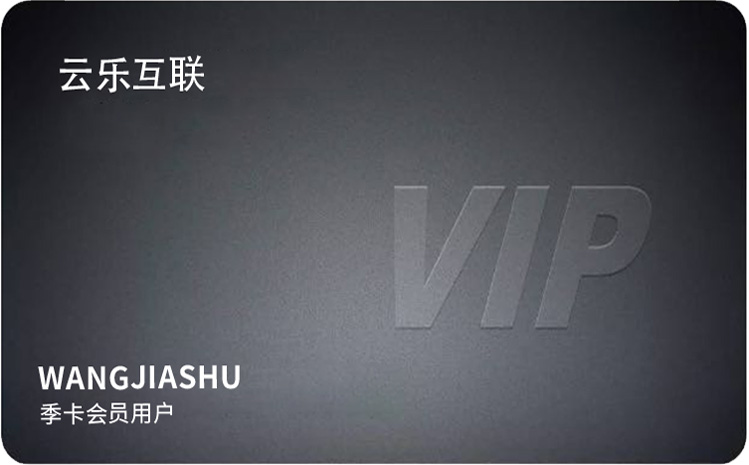
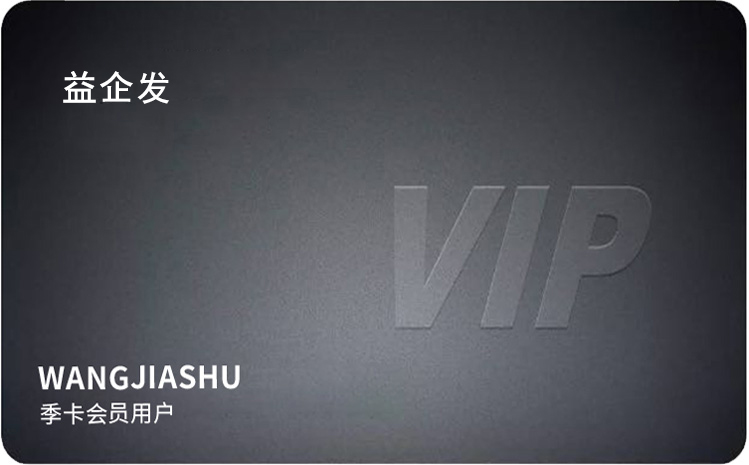
估值添加二维码

Changed region(s): [[0.0614, 0.1204, 0.2764, 0.2409]]

diff --git a/order_confirm.html b/order_confirm.html
@@ -35,7 +35,7 @@
         <div class="weui-form-preview__hd">
             <div class="weui-form-preview__item">
                 <label class="weui-form-preview__label">付款金额</label>
-                <em class="weui-form-preview__value">¥{{info.oneprice}}</em>
+                <em class="weui-form-preview__value">¥{{info.price}}</em>
             </div>
         </div>
         <div class="weui-form-preview__bd">
@@ -80,8 +80,8 @@
             <label class="weui-agree">
                 <input id="weuiAgree" type="checkbox" class="weui-agree__checkbox">
                 <span class="weui-agree__text">阅读并同意</span>
-            </label><label @click="showxie()" class="payxieyi">《云乐互联用户协议》</label>
-            <a class="order-sub" @click="pay(info.id,info.oneprice)">立即支付</a>
+            </label><label @click="showxie()" class="payxieyi">《益企发用户协议》</label>
+            <a class="order-sub" @click="pay(info.id,info.price)">立即支付</a>
         </div>
     </footer>
 </div>

diff --git a/product_detail.html b/product_detail.html
@@ -37,7 +37,7 @@
         <div class="detail-content">
             <div class="pro-title pro-item"><span>标题：</span>{{info.zhname}}</div>
             <div class="pro-price pro-item"><label>价格：</label>
-                <span class="pro-newPrice">￥{{info.oneprice}}</span>
+                <span class="pro-newPrice">￥{{info.price}}</span>
                 <!--<span class="callqq" @click="callqq(info.kfqq)">联系客服</span>-->
                 <a class="callqq" :href="'http://wpa.qq.com/msgrd?v=3&uin=' + info.kfqq +'&site=qq&menu=yes'" target="_blank">联系客服</a>
                 <span class="sellcall" @click="showcall()">卖家联系方式</span>

diff --git a/index.html b/index.html
@@ -387,7 +387,9 @@
                                         console.log(resp.data);
                                         categoryVue.data=resp.data.data
                                     }else{
-                                        $.toast("无法加载", "text");
+                                        $.toast("暂无无数据", "text");
+                                        $('.nomore').css('display','')
+                                        $(".weui-loadmore").hide()
                                     }
 
                                 })

diff --git a/guzhi.html b/guzhi.html
@@ -129,6 +129,7 @@
                 </li>
                 <li>
                     <label style="width: 100px;">世界排名:</label>
+                    <label style="font-size: 25px;"><img src="./images/logoqrcode.jpg" width="50" height="50"></label>
                     <span style="font-size: 25px;">{{wordnum}}</span>
                 </li>
             </ul>
